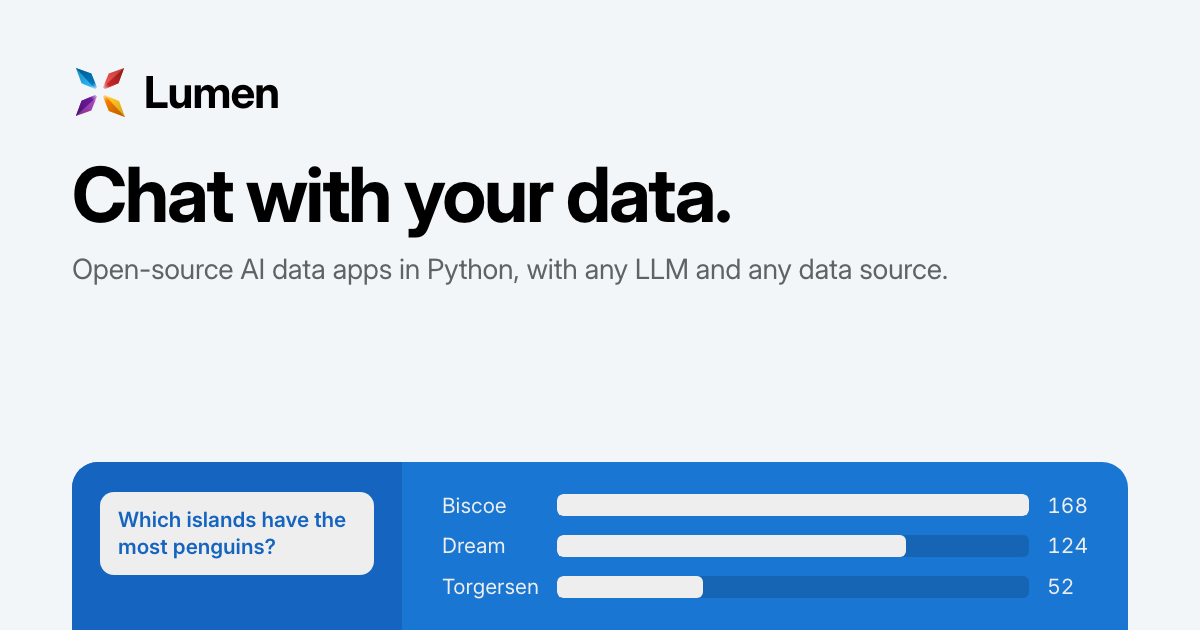
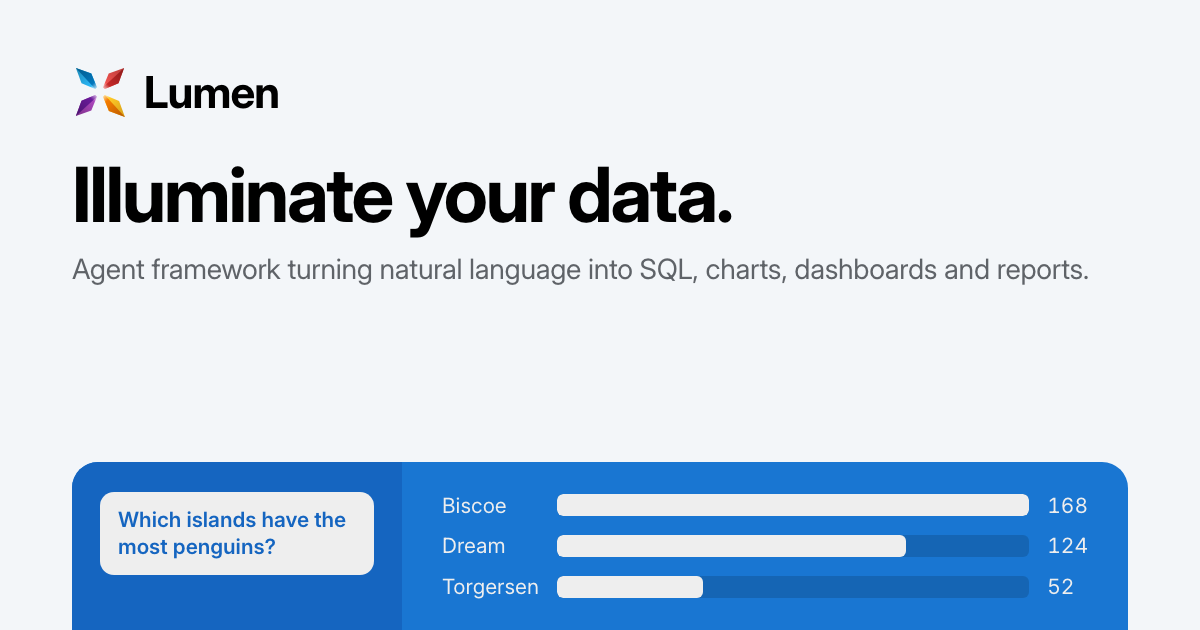
chore: drop images the maps video covers

Changed region(s): [[0.0617, 0.2413, 0.6167, 0.3619], [0.0617, 0.3921, 0.925, 0.4524]]

diff --git a/homepage/src/content/site.ts b/homepage/src/content/site.ts
@@ -69,9 +69,10 @@ export const footerColumns = [
 ]
 
 export const hero = {
-  title: 'Chat with your data.',
+  title: 'Illuminate your data.',
+  tagline: 'Agent framework turning natural language into SQL, charts, dashboards and reports.',
   lede:
-    'Lumen is an open-source Python framework for AI data applications. Ask a question in plain English and Lumen plans the steps, writes the SQL, runs it against your own sources and draws the chart, whether the data is a CSV file, a warehouse table, a NetCDF grid or a GeoJSON map. Use any LLM, connect any database, and change every step in Python or YAML.',
+    'Ask a question in plain English and Lumen plans the steps, writes the SQL, runs it against your own sources and draws the chart, whether the data is a CSV file, a warehouse table, a NetCDF grid or a GeoJSON map. Open source, with any LLM and any database, and every step can be changed in Python or YAML.',
   install: 'pip install lumen',
   installConda: 'conda install -c conda-forge lumen openai',
   primary: getStarted,
@@ -450,16 +451,6 @@ export const showcase = {
       title: 'Watch: charts and analysis',
       caption: 'Ask for a map and a trend line of every earthquake, and Lumen draws both and explains what they show.',
       video: true,
-    },
-    {
-      name: 'hexagons',
-      title: 'Earthquakes in 3D',
-      caption: 'A year of earthquakes as 3D towers, taller where more of them struck along the Pacific Ring of Fire.',
-    },
-    {
-      name: 'arcs',
-      title: 'Flight routes as arcs',
-      caption: 'The 150 busiest flight routes across the US as glowing arcs, thicker where more planes fly.',
     },
     {
       name: 'penguins',

diff --git a/homepage/index.html b/homepage/index.html
@@ -4,19 +4,19 @@
     <meta charset="UTF-8" />
     <meta name="viewport" content="width=device-width, initial-scale=1" />
 
-    <title>Lumen: chat with your data</title>
+    <title>Lumen: illuminate your data</title>
     <meta
       name="description"
-      content="Lumen is an open-source Python framework for building extensible, domain-aware AI data applications."
+      content="Agent framework turning natural language into SQL, charts, dashboards and reports."
     />
     <link rel="canonical" href="https://lumen.holoviz.org/" />
 
     <meta property="og:type" content="website" />
     <meta property="og:url" content="https://lumen.holoviz.org/" />
-    <meta property="og:title" content="Lumen: chat with your data" />
+    <meta property="og:title" content="Lumen: illuminate your data" />
     <meta
       property="og:description"
-      content="Ask questions of your data in plain English, with your own LLM and your own sources, and turn the answers into dashboards and reports."
+      content="Agent framework turning natural language into SQL, charts, dashboards and reports. Open source, with any LLM and any database."
     />
     <meta property="og:image" content="https://lumen.holoviz.org/og-image.png" />
     <meta name="twitter:card" content="summary_large_image" />

diff --git a/homepage/src/sections/Hero.tsx b/homepage/src/sections/Hero.tsx
@@ -22,9 +22,25 @@ export function Hero() {
             alignItems: 'start',
           }}
         >
-          <Typography variant="h1" component="h1" sx={{maxWidth: '24ch'}}>
-            {hero.title}
-          </Typography>
+          <Box>
+            <Typography variant="h1" component="h1" sx={{maxWidth: '24ch'}}>
+              {hero.title}
+            </Typography>
+            <Typography
+              data-hero-tagline=""
+              sx={{
+                mt: 2.5,
+                maxWidth: '30ch',
+                fontSize: 'clamp(1.25rem, 1rem + 1.1vw, 1.75rem)',
+                lineHeight: 1.35,
+                fontWeight: 500,
+                letterSpacing: '-0.015em',
+                color: 'text.secondary',
+              }}
+            >
+              {hero.tagline}
+            </Typography>
+          </Box>
           {/* Nudged down so the lede's first line sits on the headline's optical edge. */}
           <Box sx={{pt: {md: 1.25}}}>
             <Typography variant="body1" sx={{color: 'text.secondary', maxWidth: '38rem'}}>

diff --git a/homepage/scripts/og-card.html b/homepage/scripts/og-card.html
@@ -112,7 +112,7 @@
     <div>
       <div class="logo" role="img" aria-label="Lumen">__LOGO__<span>Lumen</span></div>
       <h1>__TITLE__</h1>
-      <p class="lede">Open-source AI data apps in Python, with any LLM and any data source.</p>
+      <p class="lede">__TAGLINE__</p>
     </div>
     <div class="app">
       <div class="ask"><div class="question">__QUESTION__</div></div>

diff --git a/homepage/scripts/og-image.py b/homepage/scripts/og-image.py
@@ -1,7 +1,7 @@
 """Render public/og-image.png from scripts/og-card.html.
 
 Run once and commit the result; nothing in the Vite build calls this. The card takes the
-headline and the hero's first question from the prerendered dist/index.html, so the social
+headline, the tagline and the hero's first question from the prerendered dist/index.html, so the social
 preview cannot keep advertising copy the page no longer has:
 
     pixi run -e homepage homepage-build
@@ -34,11 +34,16 @@ def from_prerender() -> dict[str, str]:
     page = PRERENDERED.read_text()
     title = re.search(r'<h1[^>]*>(.*?)</h1>', page, re.DOTALL)
     question = re.search(r'role="radio"[^>]*>(.*?)<', page, re.DOTALL)
-    if not title or not question:
-        sys.exit('No h1 or hero question in the prerendered output; did the markup change?')
+    tagline = re.search(r'data-hero-tagline=""[^>]*>(.*?)</p>', page, re.DOTALL)
+    if not title or not question or not tagline:
+        sys.exit('No h1, tagline or hero question in the prerendered output; did the markup change?')
     # React splits text around interpolations with comment markers, which have to come out.
     clean = lambda s: html.unescape(re.sub(r'<!--.*?-->', '', s)).strip()
-    return {'__TITLE__': clean(title.group(1)), '__QUESTION__': clean(question.group(1))}
+    return {
+        '__TITLE__': clean(title.group(1)),
+        '__TAGLINE__': clean(tagline.group(1)),
+        '__QUESTION__': clean(question.group(1)),
+    }
 
 
 def main() -> None:

diff --git a/homepage/tests/test_homepage.py b/homepage/tests/test_homepage.py
@@ -58,7 +58,7 @@ def test_prerendered_without_javascript(page: Page, site: str) -> None:
     """The headline must be in the HTML the server sends, not painted in by the bundle."""
     page.route('**/*.js', lambda route: route.abort())
     page.goto(site, wait_until='domcontentloaded')
-    expect(page.get_by_role('heading', level=1)).to_contain_text('Chat with your data')
+    expect(page.get_by_role('heading', level=1)).to_contain_text('Illuminate your data')
 
 
 def test_hydrates_without_console_errors(page: Page, site: str) -> None:
